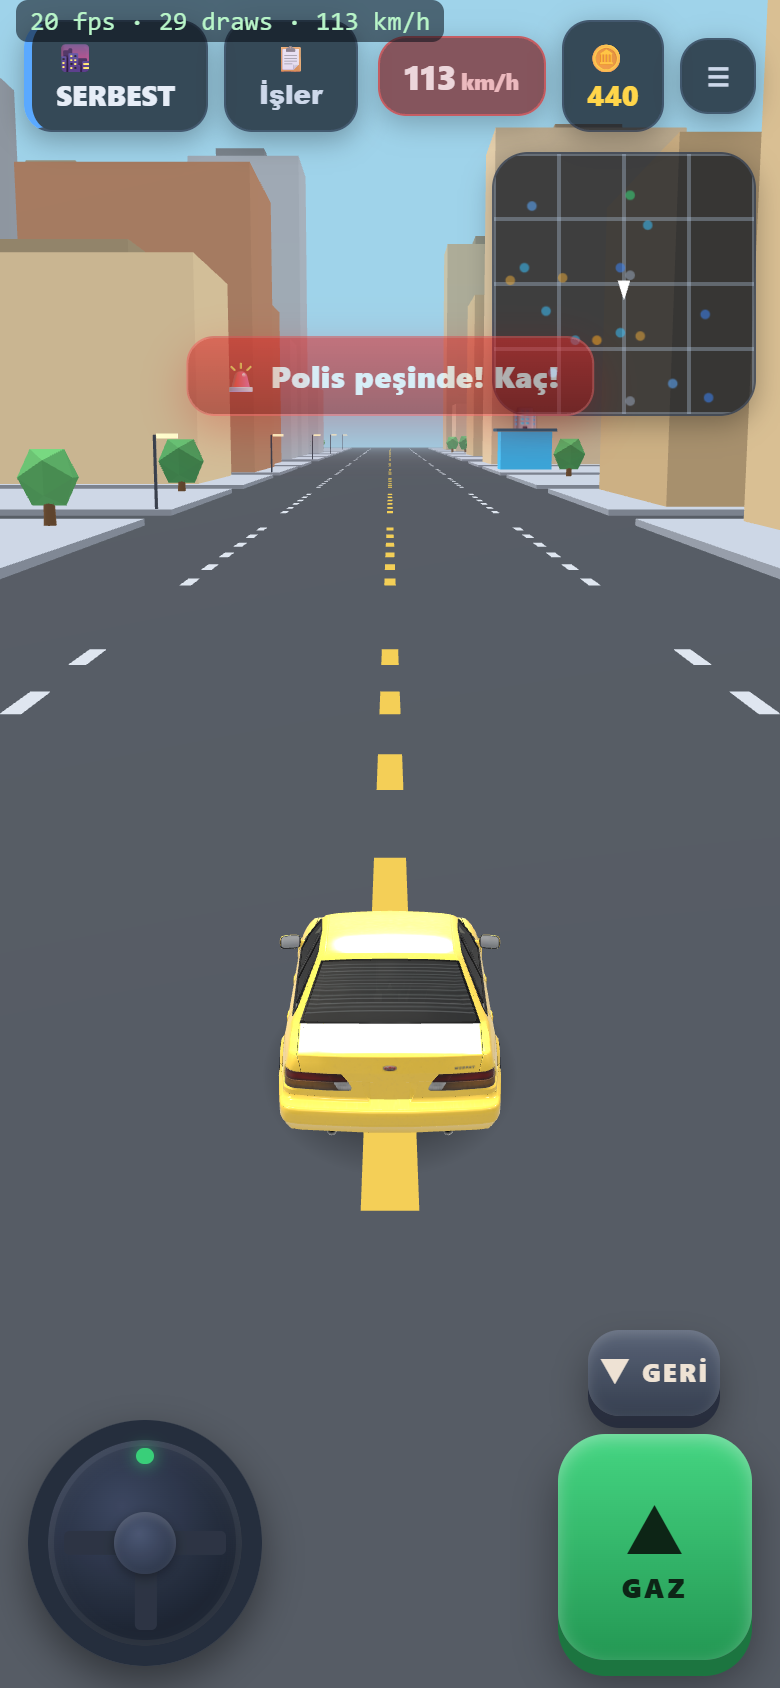
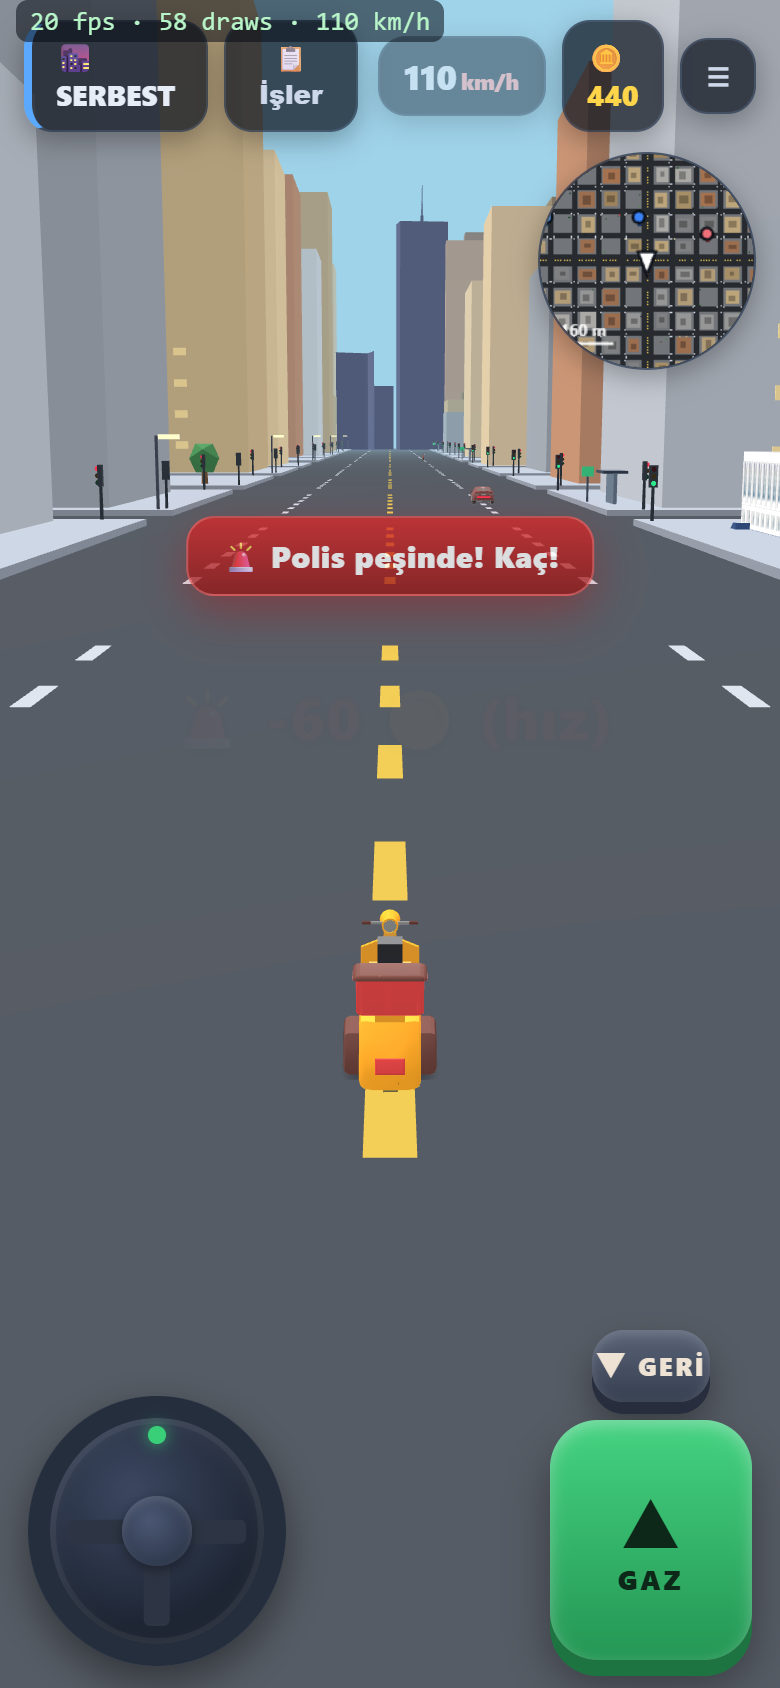
Make police patrol obey traffic lanes

diff --git a/src/world/Police.ts b/src/world/Police.ts
@@ -1,11 +1,12 @@
 import * as THREE from 'three';
 import { Grid } from '@/world/Grid';
 import { Rng } from '@/utils/Rng';
-import { Police as P } from '@/core/Balance';
+import { Police as P, TrafficRules, World } from '@/core/Balance';
 import { Vehicle3D } from '@/world/Vehicle3D';
 import { Profile } from '@/managers/ProfileStore';
 import { clamp } from '@/utils/MathUtils';
 import { bus, GameEvent } from '@/core/EventBus';
+import { RoadAxis, TrafficSignals } from '@/world/TrafficSignals';
 
 interface Cop {
   object: THREE.Group;
@@ -15,8 +16,13 @@ interface Cop {
   x: number;
   z: number;
   yaw: number;
-  wpx: number; // patrol waypoint
-  wpz: number;
+  axis: RoadAxis;
+  line: number;
+  laneHalf: number;
+  pos: number;
+  dir: 1 | -1;
+  speed: number;
+  playerBrake: boolean;
   fineCooldown: number; // seconds until this cop may fine again
 }
 
@@ -41,16 +47,15 @@ export class Police {
   private px = 0;
   private pz = 0;
 
-  constructor(private grid: Grid, private rng: Rng, template: THREE.Object3D | null = null) {
+  constructor(
+    private grid: Grid,
+    private rng: Rng,
+    template: THREE.Object3D | null = null,
+    private signals: TrafficSignals | null = null,
+  ) {
     for (let i = 0; i < P.count; i++) {
       const cop = this.buildCop(template);
-      const node = this.randomInteriorNode();
-      cop.x = node.x;
-      cop.z = node.z;
-      cop.yaw = this.rng.pick([0, Math.PI / 2, Math.PI, -Math.PI / 2]);
-      cop.object.position.set(cop.x, 0, cop.z);
-      cop.object.rotation.y = cop.yaw;
-      this.newWaypoint(cop);
+      this.spawnPatrol(cop);
       this.cops.push(cop);
       this.group.add(cop.object);
     }
@@ -63,6 +68,33 @@ export class Police {
   }
 
   get isChasing(): boolean { return this.chasing; }
+
+  /** Stable patrol snapshot for browser playtests and tuning diagnostics. */
+  debugState(): {
+    chasing: boolean;
+    patrols: number;
+    rightLaneViolations: number;
+    cardinalHeadingViolations: number;
+    stoppedForPlayer: number;
+  } {
+    const patrols = this.cops.filter((cop) => cop.state === 'patrol');
+    return {
+      chasing: this.chasing,
+      patrols: patrols.length,
+      rightLaneViolations: patrols.filter((cop) => {
+        const expectedX = cop.axis === 'z' ? cop.line - cop.dir * cop.laneHalf : cop.pos;
+        const expectedZ = cop.axis === 'z' ? cop.pos : cop.line + cop.dir * cop.laneHalf;
+        return cop.laneHalf <= 0 || Math.hypot(cop.x - expectedX, cop.z - expectedZ) > 0.02;
+      }).length,
+      cardinalHeadingViolations: patrols.filter((cop) => {
+        const expected = cop.axis === 'z'
+          ? (cop.dir > 0 ? 0 : Math.PI)
+          : (cop.dir > 0 ? Math.PI / 2 : -Math.PI / 2);
+        return Math.abs(Math.atan2(Math.sin(cop.yaw - expected), Math.cos(cop.yaw - expected))) > 0.01;
+      }).length,
+      stoppedForPlayer: patrols.filter((cop) => cop.playerBrake && cop.speed < 0.2).length,
+    };
+  }
 
   // --- Per-frame ------------------------------------------------------------
   update(dt: number, vehicle: Vehicle3D, live: boolean): void {
@@ -105,9 +137,7 @@ export class Police {
       if (cop.state === 'chase') {
         this.moveCop(cop, dt, this.px, this.pz, P.chaseSpeed);
       } else {
-        if (Math.hypot(cop.wpx - cop.x, cop.wpz - cop.z) < 10) this.newWaypoint(cop);
-        if (Math.hypot(cop.x - this.px, cop.z - this.pz) > P.patrolRadius) this.respawnNear(cop);
-        this.moveCop(cop, dt, cop.wpx, cop.wpz, P.patrolSpeed);
+        this.updatePatrol(cop, dt, vehicle);
       }
       this.updateLights(cop);
     }
@@ -137,7 +167,7 @@ export class Police {
     for (const cop of this.cops) {
       cop.state = 'patrol';
       cop.fineCooldown = P.fineDebounceSec; // grace so you aren't instantly re-fined
-      this.newWaypoint(cop);
+      this.resumePatrol(cop);
     }
     bus.emit(GameEvent.ChaseEnded);
   }
@@ -192,30 +222,157 @@ export class Police {
     cop.object.rotation.y = cop.yaw;
   }
 
-  private newWaypoint(cop: Cop): void {
-    const b = this.grid.block;
-    const col = clamp(Math.round(cop.x / b) + this.rng.int(-3, 3), 1, this.grid.cols - 1);
-    const row = clamp(Math.round(cop.z / b) + this.rng.int(-3, 3), 1, this.grid.rows - 1);
-    cop.wpx = col * b;
-    cop.wpz = row * b;
+  /** Patrol uses the exact same straight, right-hand lane model as Traffic3D. */
+  private updatePatrol(cop: Cop, dt: number, vehicle: Vehicle3D): void {
+    const distance = Math.hypot(cop.x - this.px, cop.z - this.pz);
+    const offWorld = cop.x < -20 || cop.x > this.grid.worldW + 20
+      || cop.z < -20 || cop.z > this.grid.worldD + 20;
+    if (offWorld || distance > P.patrolRadius) {
+      this.spawnPatrol(cop, this.px, this.pz);
+      return;
+    }
+
+    let desiredSpeed: number = P.patrolSpeed;
+    const signalStop = this.redLightStop(cop);
+    if (signalStop && signalStop.distance <= TrafficRules.signalLookAhead) {
+      desiredSpeed = Math.min(
+        desiredSpeed,
+        Math.sqrt(2 * TrafficRules.brakeDecel * Math.max(0, signalStop.distance - 0.35)),
+      );
+    }
+    const leadGap = this.distanceToLeadCop(cop);
+    if (leadGap !== null) {
+      desiredSpeed = Math.min(desiredSpeed, Math.max(0, (leadGap - TrafficRules.minFollowingGap) * 1.15));
+    }
+    const playerStop = this.playerStop(cop, vehicle);
+    cop.playerBrake = playerStop !== null;
+    if (playerStop) {
+      desiredSpeed = Math.min(
+        desiredSpeed,
+        Math.sqrt(2 * TrafficRules.brakeDecel
+          * Math.max(0, playerStop.gap - TrafficRules.playerStopGap)),
+      );
+    }
+
+    const rate = cop.speed < desiredSpeed ? TrafficRules.acceleration : TrafficRules.brakeDecel;
+    cop.speed += Math.sign(desiredSpeed - cop.speed) * Math.min(Math.abs(desiredSpeed - cop.speed), rate * dt);
+    const previousPos = cop.pos;
+    cop.pos += cop.dir * cop.speed * dt;
+    if (signalStop && cop.dir * (signalStop.position - previousPos) >= 0
+      && cop.dir * (cop.pos - signalStop.position) > 0) {
+      cop.pos = signalStop.position;
+      cop.speed = 0;
+    }
+    if (playerStop && cop.dir * (playerStop.position - previousPos) >= 0
+      && cop.dir * (cop.pos - playerStop.position) > 0) {
+      cop.pos = playerStop.position;
+      cop.speed = 0;
+    }
+    this.syncPatrolPose(cop);
   }
 
-  /** Reposition a patrol cop that has drifted too far back onto a road near the
-   *  player, so the city always feels lightly policed around you. */
-  private respawnNear(cop: Cop): void {
+  private spawnPatrol(cop: Cop, anchorX?: number, anchorZ?: number): void {
+    cop.axis = this.rng.chance(0.5) ? 'z' : 'x';
+    cop.dir = this.rng.chance(0.5) ? 1 : -1;
+    const fixedCount = cop.axis === 'z' ? this.grid.cols : this.grid.rows;
+    const fixedAnchor = cop.axis === 'z' ? anchorX : anchorZ;
+    const idx = fixedAnchor === undefined
+      ? this.rng.int(1, Math.max(1, fixedCount - 1))
+      : clamp(Math.round(fixedAnchor / this.grid.block) + this.rng.int(-3, 3), 1, fixedCount - 1);
+    cop.line = idx * this.grid.block;
+    cop.laneHalf = this.grid.halfAt(idx) * 0.5;
+
+    const movingCount = cop.axis === 'z' ? this.grid.rows : this.grid.cols;
+    const movingAnchor = cop.axis === 'z' ? anchorZ : anchorX;
+    if (movingAnchor === undefined) {
+      cop.pos = this.rng.range(this.grid.block, Math.max(this.grid.block, (movingCount - 1) * this.grid.block));
+    } else {
+      const offset = this.rng.range(55, Math.max(60, P.patrolRadius * 0.72));
+      cop.pos = movingAnchor + (this.rng.chance(0.5) ? offset : -offset);
+    }
+    cop.speed = P.patrolSpeed * this.rng.range(0.78, 1);
+    cop.playerBrake = false;
+    this.syncPatrolPose(cop);
+  }
+
+  /** Snap a chase car back to the closest legal lane without a visible teleport. */
+  private resumePatrol(cop: Cop): void {
     const b = this.grid.block;
-    const col = clamp(Math.round(this.px / b) + this.rng.int(-4, 4), 1, this.grid.cols - 1);
-    const row = clamp(Math.round(this.pz / b) + this.rng.int(-4, 4), 1, this.grid.rows - 1);
-    cop.x = col * b;
-    cop.z = row * b;
+    const col = clamp(Math.round(cop.x / b), 1, this.grid.cols - 1);
+    const row = clamp(Math.round(cop.z / b), 1, this.grid.rows - 1);
+    const verticalDistance = Math.abs(cop.x - col * b);
+    const horizontalDistance = Math.abs(cop.z - row * b);
+    cop.axis = verticalDistance <= horizontalDistance ? 'z' : 'x';
+    const idx = cop.axis === 'z' ? col : row;
+    cop.line = idx * b;
+    cop.laneHalf = this.grid.halfAt(idx) * 0.5;
+    cop.dir = (cop.axis === 'z' ? Math.cos(cop.yaw) : Math.sin(cop.yaw)) >= 0 ? 1 : -1;
+    cop.pos = cop.axis === 'z' ? cop.z : cop.x;
+    cop.speed = Math.min(P.patrolSpeed, P.chaseSpeed * 0.5);
+    cop.playerBrake = false;
+    this.syncPatrolPose(cop);
+  }
+
+  private syncPatrolPose(cop: Cop): void {
+    cop.x = cop.axis === 'z' ? cop.line - cop.dir * cop.laneHalf : cop.pos;
+    cop.z = cop.axis === 'z' ? cop.pos : cop.line + cop.dir * cop.laneHalf;
+    cop.yaw = cop.axis === 'z'
+      ? (cop.dir > 0 ? 0 : Math.PI)
+      : (cop.dir > 0 ? Math.PI / 2 : -Math.PI / 2);
     cop.object.position.set(cop.x, 0, cop.z);
-    this.newWaypoint(cop);
+    cop.object.rotation.y = cop.yaw;
   }
 
-  private randomInteriorNode(): { x: number; z: number } {
-    const col = this.rng.int(2, Math.max(2, this.grid.cols - 2));
-    const row = this.rng.int(2, Math.max(2, this.grid.rows - 2));
-    return { x: col * this.grid.block, z: row * this.grid.block };
+  private redLightStop(cop: Cop): { position: number; distance: number } | null {
+    if (!this.signals || this.signals.colorFor(cop.axis) === 'green') return null;
+    const block = this.grid.block;
+    const lineCount = cop.axis === 'z' ? this.grid.rows : this.grid.cols;
+    const next = cop.dir > 0
+      ? Math.floor((cop.pos + 0.001) / block) + 1
+      : Math.ceil((cop.pos - 0.001) / block) - 1;
+    if (next <= 0 || next >= lineCount) return null;
+    const position = next * block - cop.dir * (this.grid.halfAt(next) + TrafficRules.stopBuffer);
+    const distance = cop.dir * (position - cop.pos);
+    if (distance < 0) return null;
+    if (this.signals.colorFor(cop.axis) === 'amber') {
+      const safeBrakeDistance = (cop.speed * cop.speed) / (2 * TrafficRules.brakeDecel) + 1;
+      if (distance < safeBrakeDistance) return null;
+    }
+    return { position, distance };
+  }
+
+  private distanceToLeadCop(cop: Cop): number | null {
+    let nearest = Infinity;
+    for (const other of this.cops) {
+      if (other === cop || other.state !== 'patrol' || other.axis !== cop.axis || other.dir !== cop.dir) continue;
+      if (Math.abs(other.line - cop.line) > 0.1) continue;
+      const gap = cop.dir * (other.pos - cop.pos) - World.car.l;
+      if (gap >= 0 && gap < nearest) nearest = gap;
+    }
+    return Number.isFinite(nearest) ? nearest : null;
+  }
+
+  private playerStop(cop: Cop, vehicle: Vehicle3D): { gap: number; position: number } | null {
+    const sin = Math.abs(Math.sin(vehicle.yaw));
+    const cos = Math.abs(Math.cos(vehicle.yaw));
+    const halfW = World.car.w * 0.5;
+    const halfL = World.car.l * 0.5;
+    const playerExtentX = cos * halfW + sin * halfL;
+    const playerExtentZ = sin * halfW + cos * halfL;
+    const laneCoord = cop.axis === 'z' ? cop.x : cop.z;
+    const playerLateral = cop.axis === 'z' ? vehicle.x : vehicle.z;
+    const playerLateralExtent = cop.axis === 'z' ? playerExtentX : playerExtentZ;
+    if (Math.abs(playerLateral - laneCoord)
+      > playerLateralExtent + halfW + TrafficRules.playerSafetyMargin) return null;
+    const playerLongitudinal = cop.axis === 'z' ? vehicle.z : vehicle.x;
+    const playerLongitudinalExtent = cop.axis === 'z' ? playerExtentZ : playerExtentX;
+    const gap = cop.dir * (playerLongitudinal - cop.pos) - halfL - playerLongitudinalExtent;
+    if (gap < 0 || gap > TrafficRules.playerLookAhead) return null;
+    return {
+      gap,
+      position: playerLongitudinal
+        - cop.dir * (halfL + playerLongitudinalExtent + TrafficRules.playerStopGap),
+    };
   }
 
   // --- Visuals --------------------------------------------------------------
@@ -242,7 +399,11 @@ export class Police {
     const l = new THREE.Mesh(pod, matL); l.position.set(-0.38, 1.62, -0.15);
     const r = new THREE.Mesh(pod, matR); r.position.set(0.38, 1.62, -0.15);
     object.add(l, r);
-    return { object, matL, matR, state: 'patrol', x: 0, z: 0, yaw: 0, wpx: 0, wpz: 0, fineCooldown: 0 };
+    return {
+      object, matL, matR, state: 'patrol', x: 0, z: 0, yaw: 0,
+      axis: 'z', line: 0, laneHalf: 4, pos: 0, dir: 1, speed: P.patrolSpeed,
+      playerBrake: false, fineCooldown: 0,
+    };
   }
 
   /** Procedural white police car — fallback when the cop GLB isn't available

diff --git a/src/world/Traffic3D.ts b/src/world/Traffic3D.ts
@@ -55,7 +55,8 @@ export class Traffic3D {
   private trafficModelMeshes: THREE.InstancedMesh[] = [];
   private trafficModelsReady = false;
   private trafficModelStatus = 'loading';
-  private signals: TrafficSignals;
+  /** Shared road-signal controller; police patrols read the same phase. */
+  readonly signals: TrafficSignals;
   // True whenever at least one car/traffic-model instance matrix was written
   // this frame; gates the per-mesh `needsUpdate` flush in `update()` so idle
   // frames (no active car repositioned) skip the GPU buffer re-upload.

diff --git a/src/boot.ts b/src/boot.ts
@@ -184,7 +184,7 @@ function startFree(): void {
   const traffic = new Traffic3D(grid, rng);
   scene.add(traffic.group);
   // Patrol police: speeding past one (or crashing beside one) → fine + short chase.
-  const police = new Police(grid, rng, copTemplate);
+  const police = new Police(grid, rng, copTemplate, traffic.signals);
   scene.add(police.group);
   const chase = new ChaseCamera(game.camera);
 

diff --git a/CODEX_WORK_LOG.md b/CODEX_WORK_LOG.md
@@ -150,6 +150,52 @@ Yeni dosyalar:
 
 ---
 
+# Polis devriye AI trafik kurallari duzeltmesi — 20 Temmuz 2026
+
+## Kok neden ve uygulama
+
+- Eski polis devriyesi iki boyutlu rastgele waypoint seciyor, hedefe capraz donuyor ve
+  yol koridoru cozumleyicisine carpinca yol icinde duzensizce savruluyordu.
+- Waypoint devriyesi kaldirildi. Polisler artik normal trafik araclariyla ayni yol
+  modeliyle ilerliyor: sabit yol ekseni, yonune gore sag serit merkezi ve kardinal
+  arac acisi.
+- Devriye polisi trafik sistemiyle ayni `TrafficSignals` nesnesini kullaniyor;
+  kirmizi/isik fazinda stop cizgisine frenleyerek duruyor.
+- Polisler ayni seritteki diger devriye aracina takip mesafesi birakiyor ve oyuncu
+  seridi kapatiyorsa normal trafik gibi carpmadan once duruyor.
+- Kovalamaca davranisi korunuyor. Kovalamaca bittiginde polis en yakin yasal sag
+  seride yumusakca hizalaniyor ve duz devriyeye geri donuyor.
+- `Traffic3D.signals` salt-okunur ortak denetleyici olarak acildi; `boot.ts` bu nesneyi
+  polise iletiyor. Trafik playtest'i yeni `TrafficSignals` sahipligine gore guncellendi.
+
+## Dogrulama
+
+- `node tools/playtest/police.mjs`: PASS.
+  - Devriye polisi: `3`; sag serit ihlali: `0`; kardinal yon ihlali: `0`.
+  - 1.4 saniyelik hareket orneginde uc polisin yanal sapmasi da `0 m`.
+  - Ceza, kovalamaca banner'i ve kacis dongusu PASS; konsol hatasi yok.
+- `npm run playtest:traffic`: PASS.
+  - 676 sinyal yaklasimi, sag serit ihlali `0`, kirmizida durma ve oyuncuya yol
+    verme testleri PASS.
+- `npm run playtest:modes`: PASS; RUSH ve SERBEST 80/80 yol ornegi gecerli.
+- `npm run typecheck`: PASS.
+- `npm run build`: PASS.
+- 390x844 `police-patrol.png` ve `police-chase.png` ekran goruntuleri olusturuldu;
+  devriye sahnesi gozle incelendi.
+
+## Guncellenen dosyalar
+
+- `src/world/Police.ts`
+- `src/world/Traffic3D.ts`
+- `src/boot.ts`
+- `tools/playtest/police.mjs`
+- `tools/playtest/traffic-rules.mjs`
+- `tools/playtest/shots/police-patrol.png`
+- `tools/playtest/shots/police-chase.png`
+- `CODEX_WORK_LOG.md`
+
+---
+
 # RUSH + SERBEST birebir canlı dünya haritası — 21 Temmuz 2026
 
 ## Durum
